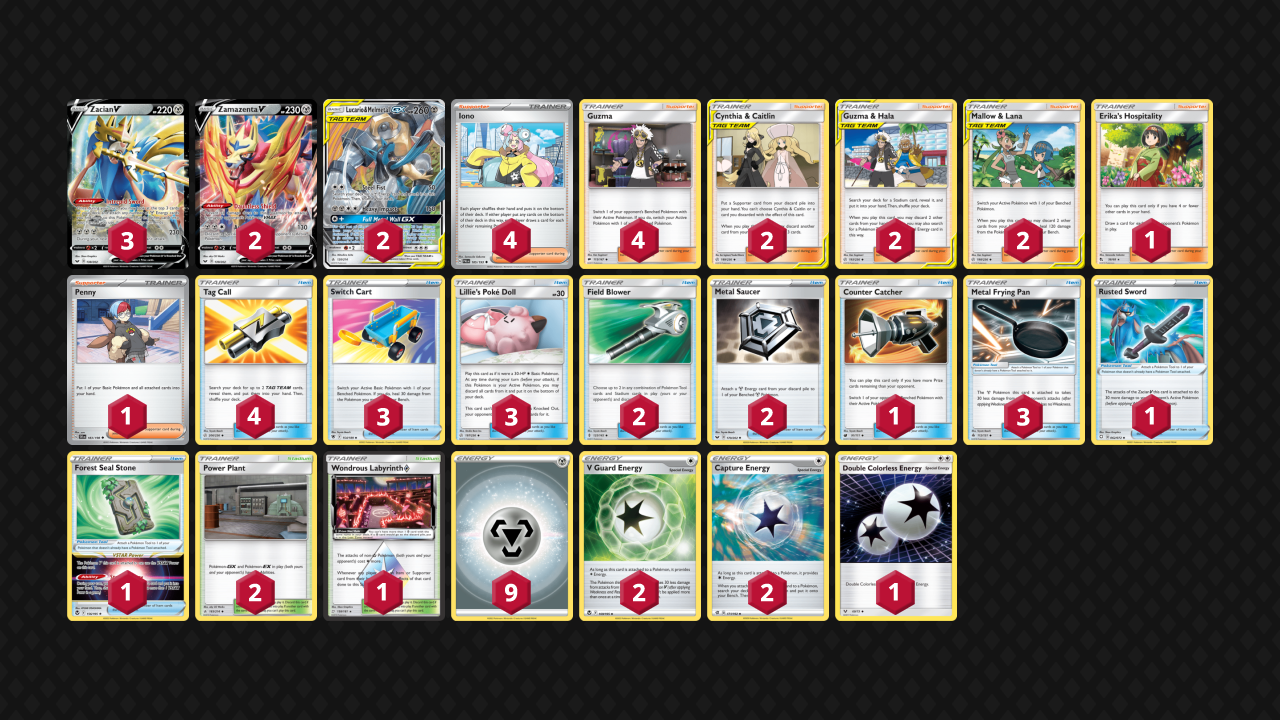
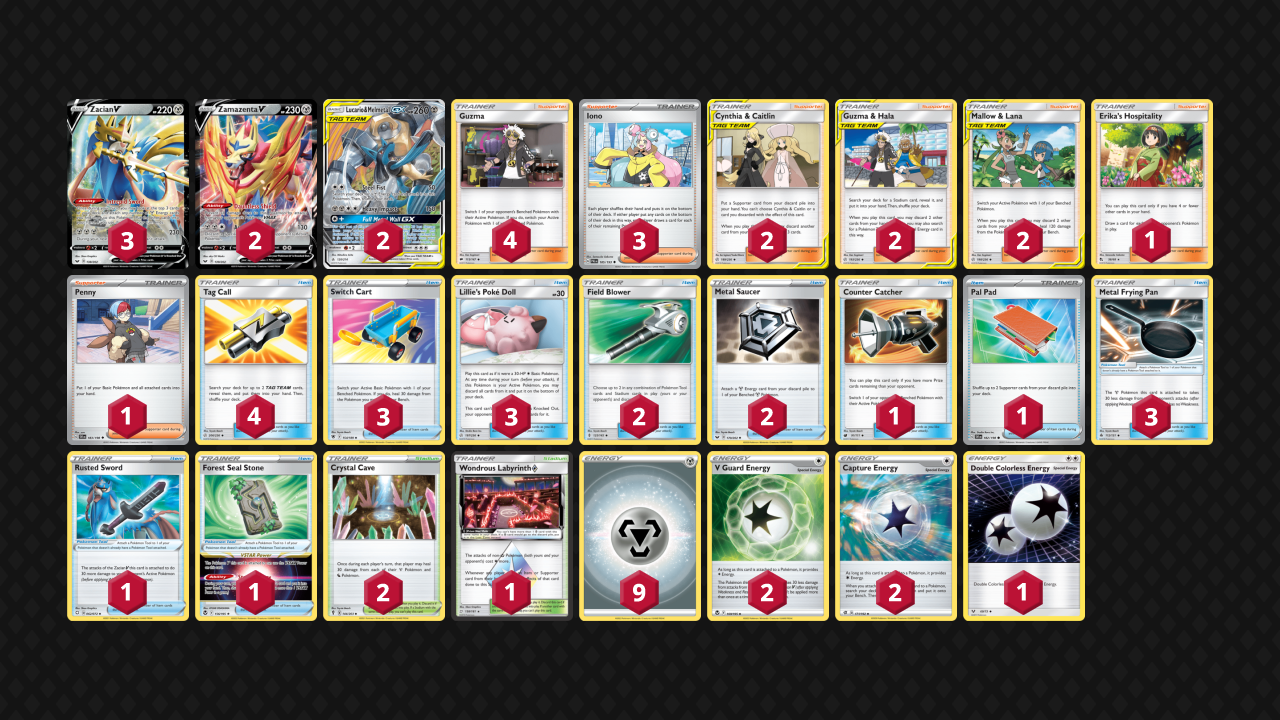
updated yoichi_vivi's PAL Zacian LucMetal decklist, added some lists from reddit

Changed region(s): [[0.0312, 0.3667, 0.9688, 0.8861], [0.3438, 0.1222, 0.5625, 0.3972]]

diff --git a/SVI/Salazzle/1- Salazzle.md b/SVI/Salazzle/1- Salazzle.md
@@ -1,0 +1,36 @@
+# Salazzle
+
+Author: NoPornoGrindAllowed
+
+Source: <https://www.reddit.com/r/PTCGL/comments/12up4yt/this_has_to_be_in_my_opinion_one_of_the_most>
+
+Date: 22th April 2023
+
+Description: This has to be, in my opinion, one of the most underrated single-prize decks. Surprisingly consistent, and it hits all the important numbers fr. 280 with vitality, 300 with belt, add a kukui for 300/320. Also, same-turn-evolution Butterfree line w/ nets is awesome.
+
+![decklist](../../images/SVI/Salazzle/1-%20Salazzle.png)
+
+## List
+
+* 3 Metapod RCL 2 PH
+* 4 Salazzle BST 28 PH
+* 4 Salandit GRI 15
+* 3 Butterfree FST 3
+* 3 Caterpie RCL 1 PH
+* 3 Jirachi SMP 161
+* 2 Cynthia HIF 151
+* 2 Escape Board UPR 167
+* 4 Scoop Up Net RCL 207
+* 2 Guzma BUS 143
+* 4 Acro Bike CES 178
+* 4 Level Ball BST 181
+* 3 Evolution Incense SSH 163
+* 1 Escape Rope BUS 163
+* 2 Turffield Stadium RCL 170
+* 2 Energy Loto GRI 122 PH
+* 4 Professor's Research SVI 189
+* 2 Choice Belt BRS 135
+* 1 Rescue Carrier EVS 154 PH
+* 1 Boss's Orders BRS 132
+* 2 Twin Energy RCL 209
+* 4 Double Colorless Energy GRI 166

diff --git a/SVI/Alolan Sandslash/1- Alolan Sandslash.md b/SVI/Alolan Sandslash/1- Alolan Sandslash.md
@@ -1,0 +1,37 @@
+# Alolan Sandslash
+
+Author: NoPornoGrindAllowed
+
+Source: <https://www.reddit.com/r/PTCGL/comments/130bkf7/back_again_with_another_super_slepton_deck_thats>
+
+Date: 27th April 2023
+
+Description: Not having VS seeker for Misty&Lorelei isn't optimal, but it's still fully capable of sweeping 6+ prize knockouts, especially against Mew's conveniently 190hp draw engine buddies 🥰
+
+![decklist](../../images/SVI/Alolan%20Sandslash/1-%20Alolan%20Sandslash.png)
+
+## List
+
+* 1 Eldegoss V RCL 19
+* 3 Alolan Sandslash-GX SMP 236
+* 4 Alolan Sandshrew GRI 19
+* 1 Dedenne-GX UNB 57
+* 1 Tapu Koko SMP 30
+* 2 Koffing CEC 76
+* 4 Weezing CEC 77
+* 1 Tapu Lele-GX GRI 60
+* 1 Crobat V DAA 104
+* 3 Aqua Patch GRI 119
+* 1 Capacious Bucket RCL 156
+* 1 Escape Rope BUS 114
+* 3 Pokégear 3.0 SVI 186
+* 4 Quick Ball FST 237
+* 2 Switch CRZ 144
+* 4 Ultra Ball SUM 135
+* 2 Brooklet Hill GRI 120
+* 2 Cynthia UPR 119
+* 2 Guzma BUS 115
+* 2 Misty & Lorelei CEC 199
+* 4 Roxie CEC 205
+* 4 Double Colorless Energy SUM 136
+* 8 Basic {W} Energy Energy 11

diff --git a/SVI/Stonjourner Vmax/1- Stonjourner Vmax.md b/SVI/Stonjourner Vmax/1- Stonjourner Vmax.md
@@ -1,0 +1,37 @@
+# Stonjourner Vmax
+
+Author: NoPornoGrindAllowed
+
+Source: <https://www.reddit.com/r/PTCGL/comments/12tu53w/looking_for_advice_on_this_list_its_expanded_and>
+
+Date: 21th April 2023
+
+![decklist](../../images/SVI/Stonjourner%20Vmax/1-%20Stonjourner%20Vmax.png)
+
+## List
+
+* 1 Radiant Tsareena SIT 16
+* 1 Diancie {*} FLI 74
+* 3 Stonjourner VMAX SSH 116
+* 4 Stonjourner V SSH 115
+* 1 Miltank CIN 78
+* 1 Enhanced Hammer GRI 124
+* 4 Crushing Hammer SUM 115
+* 1 Energy Retrieval CRZ 127
+* 4 Lucky Ice Pop EVS 150
+* 4 Mixed Herbs LOT 184
+* 2 Nest Ball SVI 181
+* 1 Rescue Stretcher GRI 130
+* 4 Switch Cart ASR 154
+* 1 Brooklet Hill GRI 120
+* 2 Lake Acuity LOR 160
+* 1 Acerola BUS 112
+* 1 Guzma BUS 115
+* 4 Marnie CPA 56
+* 2 Pokémon Center Lady SSH 176
+* 2 Tate & Liza CES 148
+* 2 Air Balloon SSH 156
+* 1 Memory Capsule VIV 155
+* 2 Rock Chestplate SVI 192
+* 4 Stone {F} Energy VIV 164
+* 7 Basic {F} Energy SVE 6
